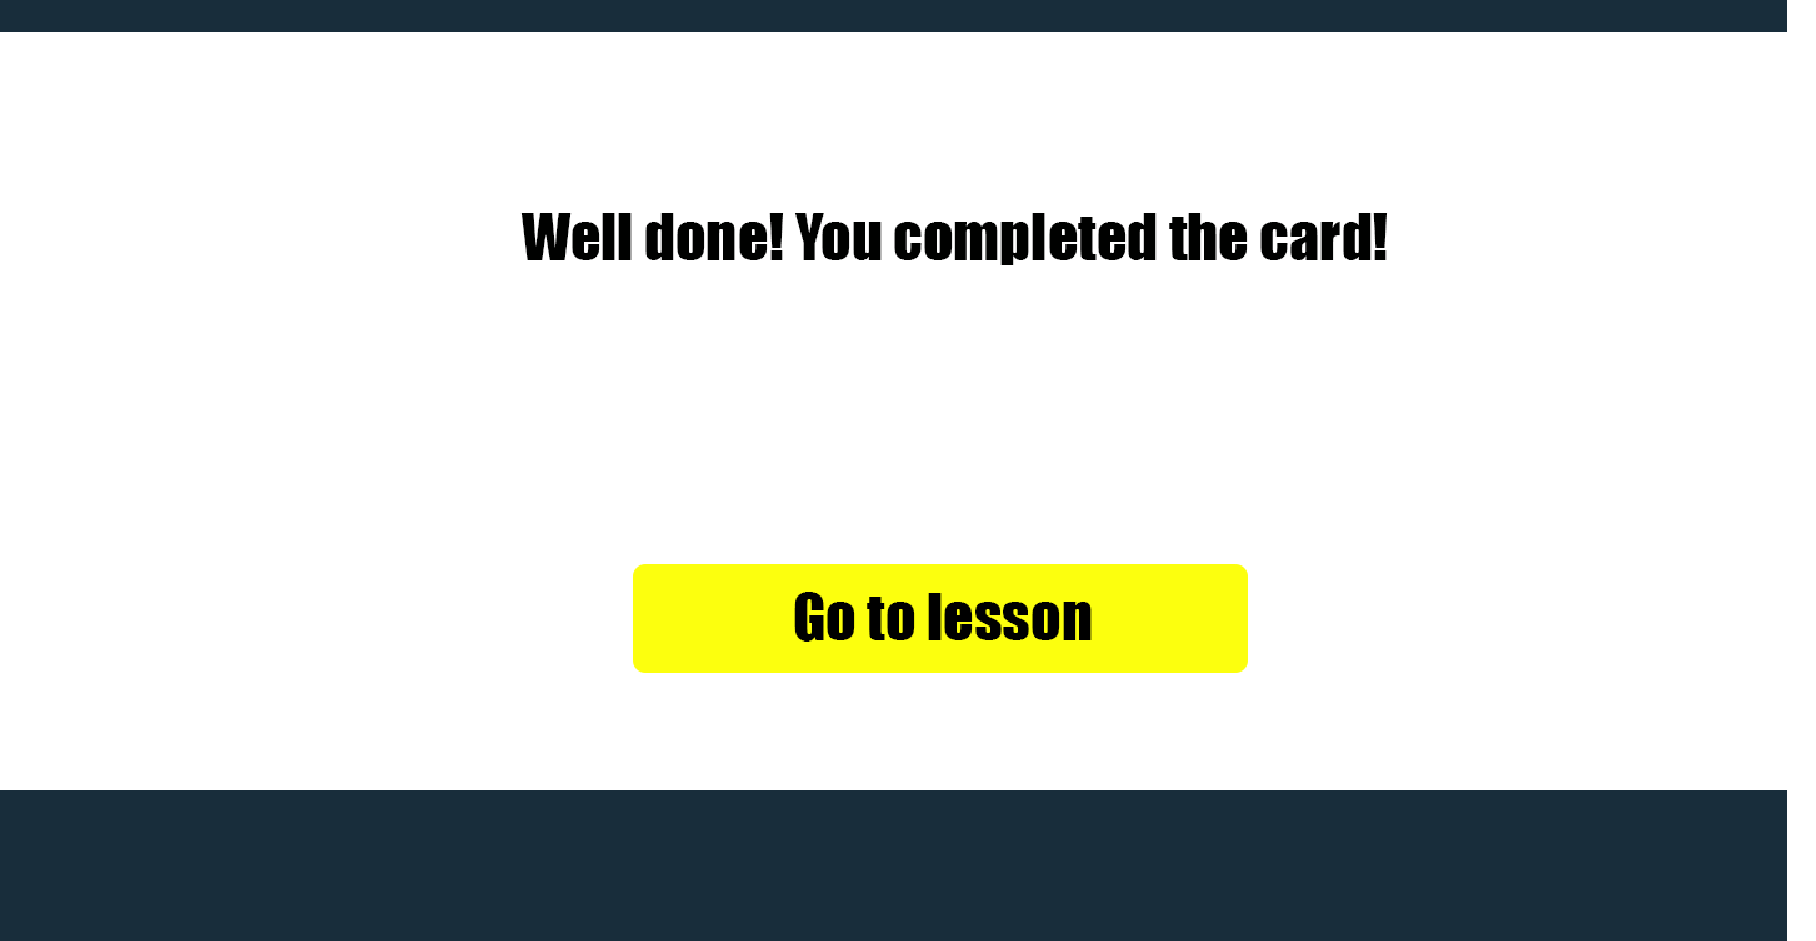
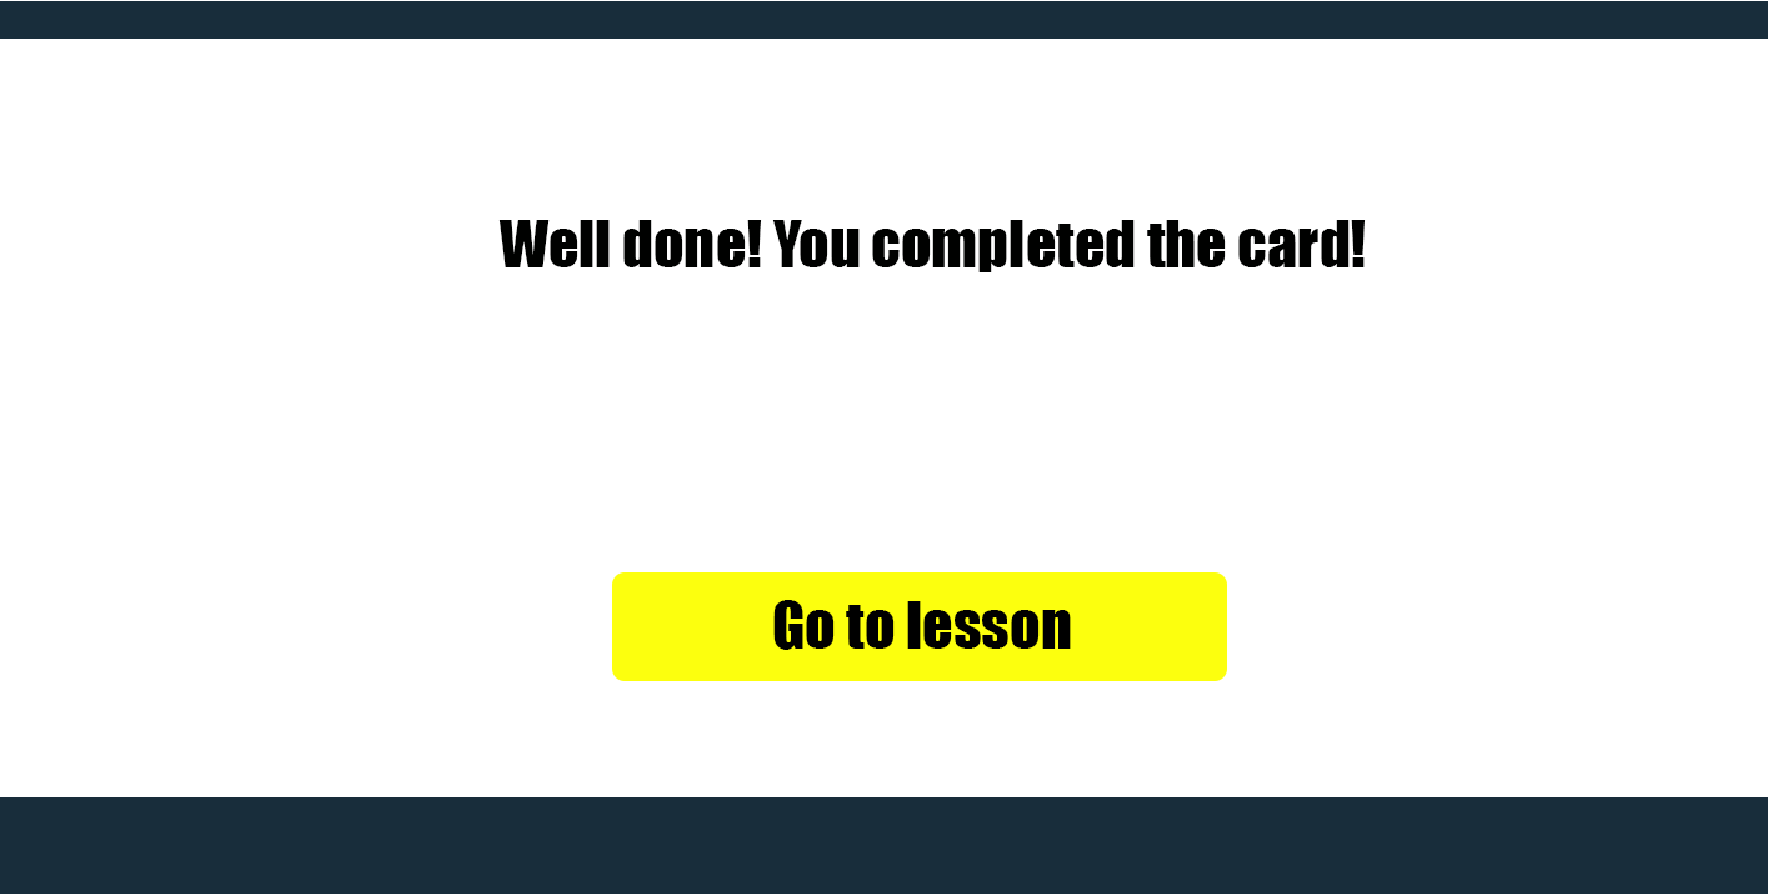
Can chinh man hinh khon con scrollbar #13

diff --git a/js/Scene0.js b/js/Scene0.js
@@ -41,6 +41,8 @@ class Scene0 extends Phaser.Scene {
 		this.load.audio("sound3", "../assets/sounds/sound3.mp3");
 		this.load.audio("sound4", "../assets/sounds/sound4.mp3");
 
+		this.load.image("start", "../assets/images/startButton.png");
+
 		// module 1 and module 3
 		for (var i=1; i<=20; i++) {
 			this.load.image("body-train"+i, "../assets/images/body-train"+i+".png");
@@ -89,22 +91,25 @@ class Scene0 extends Phaser.Scene {
 
 	create() {
 		this.background = this.add.image(0, 30, "khungmain");
-		this.background.setOrigin(0, 0);
-		this.imageModule2 = this.add.sprite(550, 150,"khung1").setInteractive({cursor: 'pointer'});
-		this.imageModule2.setOrigin(0, 0);		
+		this.background.setPosition(this.cameras.main.centerX, this.cameras.main.centerY);
+
+		this.imageModule2 = this.add.sprite(550, 220,"khung1").setInteractive({cursor: 'pointer'});	
+		this.imageModule2.setPosition(this.cameras.main.centerX, this.cameras.main.centerY+30);
 		this.imageModule2.on('pointerover', () => this.imageModule2.setFrame(1));
 		this.imageModule2.on('pointerout', () => this.imageModule2.setFrame(0));
-		this.imageModule2.on('pointerdown', () => this.scene.start('screenStart1'));
-		this.imageModule1 = this.add.sprite(50, 150,"khung2").setInteractive({cursor: 'pointer'}); 
-		this.imageModule1.setOrigin(0, 0);		
+		this.imageModule2.on('pointerdown', () => this.scene.start('screenPlay1'));
+
+		this.imageModule1 = this.add.sprite(50, 220,"khung2").setInteractive({cursor: 'pointer'}); 
+		this.imageModule1.setPosition(this.cameras.main.centerX/2-80, this.cameras.main.centerY+30);
 		this.imageModule1.on('pointerover', () => this.imageModule1.setFrame(1));
 		this.imageModule1.on('pointerout', () => this.imageModule1.setFrame(0));
-		this.imageModule1.on('pointerdown', () => this.scene.start('screenStart2'));
-		this.imageModule3 = this.add.sprite(1050, 150,"khung3").setInteractive({cursor: 'pointer'});
-		this.imageModule3.setOrigin(0, 0);		
+		this.imageModule1.on('pointerdown', () => this.scene.start('screenPlay2'));
+
+		this.imageModule3 = this.add.sprite(1050, 220,"khung3").setInteractive({cursor: 'pointer'});
+		this.imageModule3.setPosition(this.cameras.main.centerX*3/2+80, this.cameras.main.centerY+30);		
 		this.imageModule3.on('pointerover', () => this.imageModule3.setFrame(1));
 		this.imageModule3.on('pointerout', () => this.imageModule3.setFrame(0));
-		this.imageModule3.on('pointerdown', () => this.scene.start('screenStart3'));
+		this.imageModule3.on('pointerdown', () => this.scene.start('screenPlay3'));
 
 		this.anims.create({
 			key: "explode",

diff --git a/js/module1/Scene4.js b/js/module1/Scene4.js
@@ -41,16 +41,8 @@ class Scene4 extends Phaser.Scene {
 		this.greenBall3.statusLeft = false;
 		this.greenBall2.statusLeft = false;
 		this.greenBall1.statusLeft = false;
+		
 		// sound
-		// this.speaker = this.add.image(200, 60, "loa").setScale(0.2);
-		// this.speaker.setOrigin(0, 0);
-		// this.speaker.setInteractive({cursor: 'pointer'});
-		// this.music = this.sound.add('sound1');
-		// this.speaker.on('pointerdown', () => {
-		// 	this.music.play();
-		// 	this.speaker.destroy();
-		// 	this.initSpeaker();
-		// });
 		this.initSpeaker();
 		
 		// track
@@ -72,6 +64,42 @@ class Scene4 extends Phaser.Scene {
 		//this.track8.setScale(0.4);
 		//init
 		this.initial();
+
+		//
+		this.time.addEvent({
+			delay: 0,
+			callback: () => {
+				this.trainBody1.disableInteractive();
+				this.trainBody2.disableInteractive();
+				this.trainBody3.disableInteractive();
+				this.trainBody4.disableInteractive();
+				this.trainBody5.disableInteractive();
+				this.speaker.disableInteractive();
+			}
+		});
+		
+		// start button
+		this.time.addEvent({
+			delay: 0,
+			callback: () => {
+				this.startBackground = this.add.image(106, 85, "start");
+				this.startBackground.setOrigin(0, 0);
+				this.startButton = this.add.sprite(DEFAULT_WIDTH/2, DEFAULT_HEIGHT/2, "buttonstart").setInteractive({cursor: 'pointer'});
+				this.startButton.on('pointerover', () => this.startButton.setFrame(1));
+				this.startButton.on('pointerout', () => this.startButton.setFrame(0));
+				this.startButton.on('pointerdown', () => {
+					this.startBackground.destroy();
+					this.startButton.destroy();
+					this.trainBody1.setInteractive({cursor: 'pointer'});
+					this.trainBody2.setInteractive({cursor: 'pointer'});
+					this.trainBody3.setInteractive({cursor: 'pointer'});
+					this.trainBody4.setInteractive({cursor: 'pointer'});
+					this.trainBody5.setInteractive({cursor: 'pointer'});
+					this.speaker.setInteractive({cursor: 'pointer'});
+				});
+			}
+		});
+
 		// drag object
 		this.input.on('pointerdown', this.startDrag, this);
 		
@@ -79,7 +107,7 @@ class Scene4 extends Phaser.Scene {
 
 	initial() {
 		this.time.addEvent({
-			delay: 1000,
+			delay: 0,
 			callback: () => {
 				// The number of turns it takes for a green ball to run to the right
 				this.count = 0;

diff --git a/js/module3/Scene6.js b/js/module3/Scene6.js
@@ -19,7 +19,7 @@ class Scene6 extends Phaser.Scene {
 		this.backButton = this.add.sprite(155, 50, "buttonback").setInteractive({cursor: 'pointer'});
 		this.backButton.on('pointerover', () => this.backButton.setFrame(1));
 		this.backButton.on('pointerout', () => this.backButton.setFrame(0));
-		this.backButton.on('pointerdown', () => this.scene.start("screenMain"))
+		this.backButton.on('pointerdown', () => this.scene.start("screenMain"));
 		//bar
 		this.bar = this.add.image(400, 30, "thanhbar").setScale(0.5);
 		this.bar.setOrigin(0, 0);
@@ -61,13 +61,49 @@ class Scene6 extends Phaser.Scene {
 		//this.track8.setScale(0.4);
 		//init
 		this.initial();
+
+		//
+		this.time.addEvent({
+			delay: 0,
+			callback: () => {
+				this.trainBody1.disableInteractive();
+				this.trainBody2.disableInteractive();
+				this.trainBody3.disableInteractive();
+				this.trainBody4.disableInteractive();
+				this.trainBody5.disableInteractive();
+				this.speaker.disableInteractive();
+			}
+		});
+		
+		// start button
+		this.time.addEvent({
+			delay: 0,
+			callback: () => {
+				this.startBackground = this.add.image(106, 85, "start");
+				this.startBackground.setOrigin(0, 0);
+				this.startButton = this.add.sprite(DEFAULT_WIDTH/2, DEFAULT_HEIGHT/2, "buttonstart").setInteractive({cursor: 'pointer'});
+				this.startButton.on('pointerover', () => this.startButton.setFrame(1));
+				this.startButton.on('pointerout', () => this.startButton.setFrame(0));
+				this.startButton.on('pointerdown', () => {
+					this.startBackground.destroy();
+					this.startButton.destroy();
+					this.trainBody1.setInteractive({cursor: 'pointer'});
+					this.trainBody2.setInteractive({cursor: 'pointer'});
+					this.trainBody3.setInteractive({cursor: 'pointer'});
+					this.trainBody4.setInteractive({cursor: 'pointer'});
+					this.trainBody5.setInteractive({cursor: 'pointer'});
+					this.speaker.setInteractive({cursor: 'pointer'});
+				});
+			}
+		});
+
 		//drag object
 		this.input.on('pointerdown', this.startDrag, this);
 	}
 
 	initial() {
 		this.time.addEvent({
-			delay: 1000,
+			delay: 0,
 			callback: () => {
 				// The number of turns it takes for a green ball to run to the right
 				this.count = 0;

diff --git a/js/module2/Scene2.js b/js/module2/Scene2.js
@@ -45,13 +45,49 @@ class Scene2 extends Phaser.Scene {
 		this.initSpeaker();
 		// init
 		this.initial();
+
+		//
+		this.time.addEvent({
+			delay: 0,
+			callback: () => {
+				this.trainBody1.disableInteractive();
+				this.trainBody2.disableInteractive();
+				this.trainBody3.disableInteractive();
+				this.trainBody4.disableInteractive();
+				this.trainBody5.disableInteractive();
+				this.speaker.disableInteractive();
+			}
+		});
+		
+		// start button
+		this.time.addEvent({
+			delay: 0,
+			callback: () => {
+				this.startBackground = this.add.image(106, 85, "start");
+				this.startBackground.setOrigin(0, 0);
+				this.startButton = this.add.sprite(DEFAULT_WIDTH/2, DEFAULT_HEIGHT/2, "buttonstart").setInteractive({cursor: 'pointer'});
+				this.startButton.on('pointerover', () => this.startButton.setFrame(1));
+				this.startButton.on('pointerout', () => this.startButton.setFrame(0));
+				this.startButton.on('pointerdown', () => {
+					this.startBackground.destroy();
+					this.startButton.destroy();
+					this.trainBody1.setInteractive({cursor: 'pointer'});
+					this.trainBody2.setInteractive({cursor: 'pointer'});
+					this.trainBody3.setInteractive({cursor: 'pointer'});
+					this.trainBody4.setInteractive({cursor: 'pointer'});
+					this.trainBody5.setInteractive({cursor: 'pointer'});
+					this.speaker.setInteractive({cursor: 'pointer'});
+				});
+			}
+		});
+
 		// drag object
 		this.input.on('pointerdown', this.startDrag, this);
 	}
 
 	initial() {
 		this.time.addEvent({
-		    delay: 1000,
+		    delay: 0,
 		    callback: ()=>{
 		    	// number of correct sentences
 		    	this.countCorrect = 0;

diff --git a/js/app.js b/js/app.js
@@ -1,6 +1,18 @@
+// jshint esversion: 6
+const ratio = Math.max(window.innerWidth / window.innerHeight, window.innerHeight / window.innerWidth);
+const DEFAULT_HEIGHT = 780; 
+const DEFAULT_WIDTH = ratio * DEFAULT_HEIGHT;
+
 var config = {
-	width: 1455,
-	height: 780,
+	type: Phaser.AUTO,
+	type: Phaser.AUTO,
+	scale: {
+		mode: Phaser.Scale.FIT,
+		parent: 'phaser-example',
+		autoCenter: Phaser.Scale.CENTER_BOTH,
+		width: DEFAULT_WIDTH,
+		height: DEFAULT_HEIGHT
+	},
 	backgroundColor: '#182d3b',
 	scene: [Scene0, Scene1, Scene2, Scene3, Scene4, Scene5, Scene6],
 	pixelArt: true,

diff --git a/js/index.html b/js/index.html
@@ -15,6 +15,14 @@
 	<script type="text/javascript" src="../js/module2/Scene1.js"></script>
 	<script type="text/javascript" src="Scene0.js"></script>
 	<script type="text/javascript" src="app.js"></script>
+	<style>
+		html,
+		body {
+			height: 100%;
+			margin: 0;
+			background-color: #000000;
+		}
+	</style>
 </head>
 <body>
 </body>
